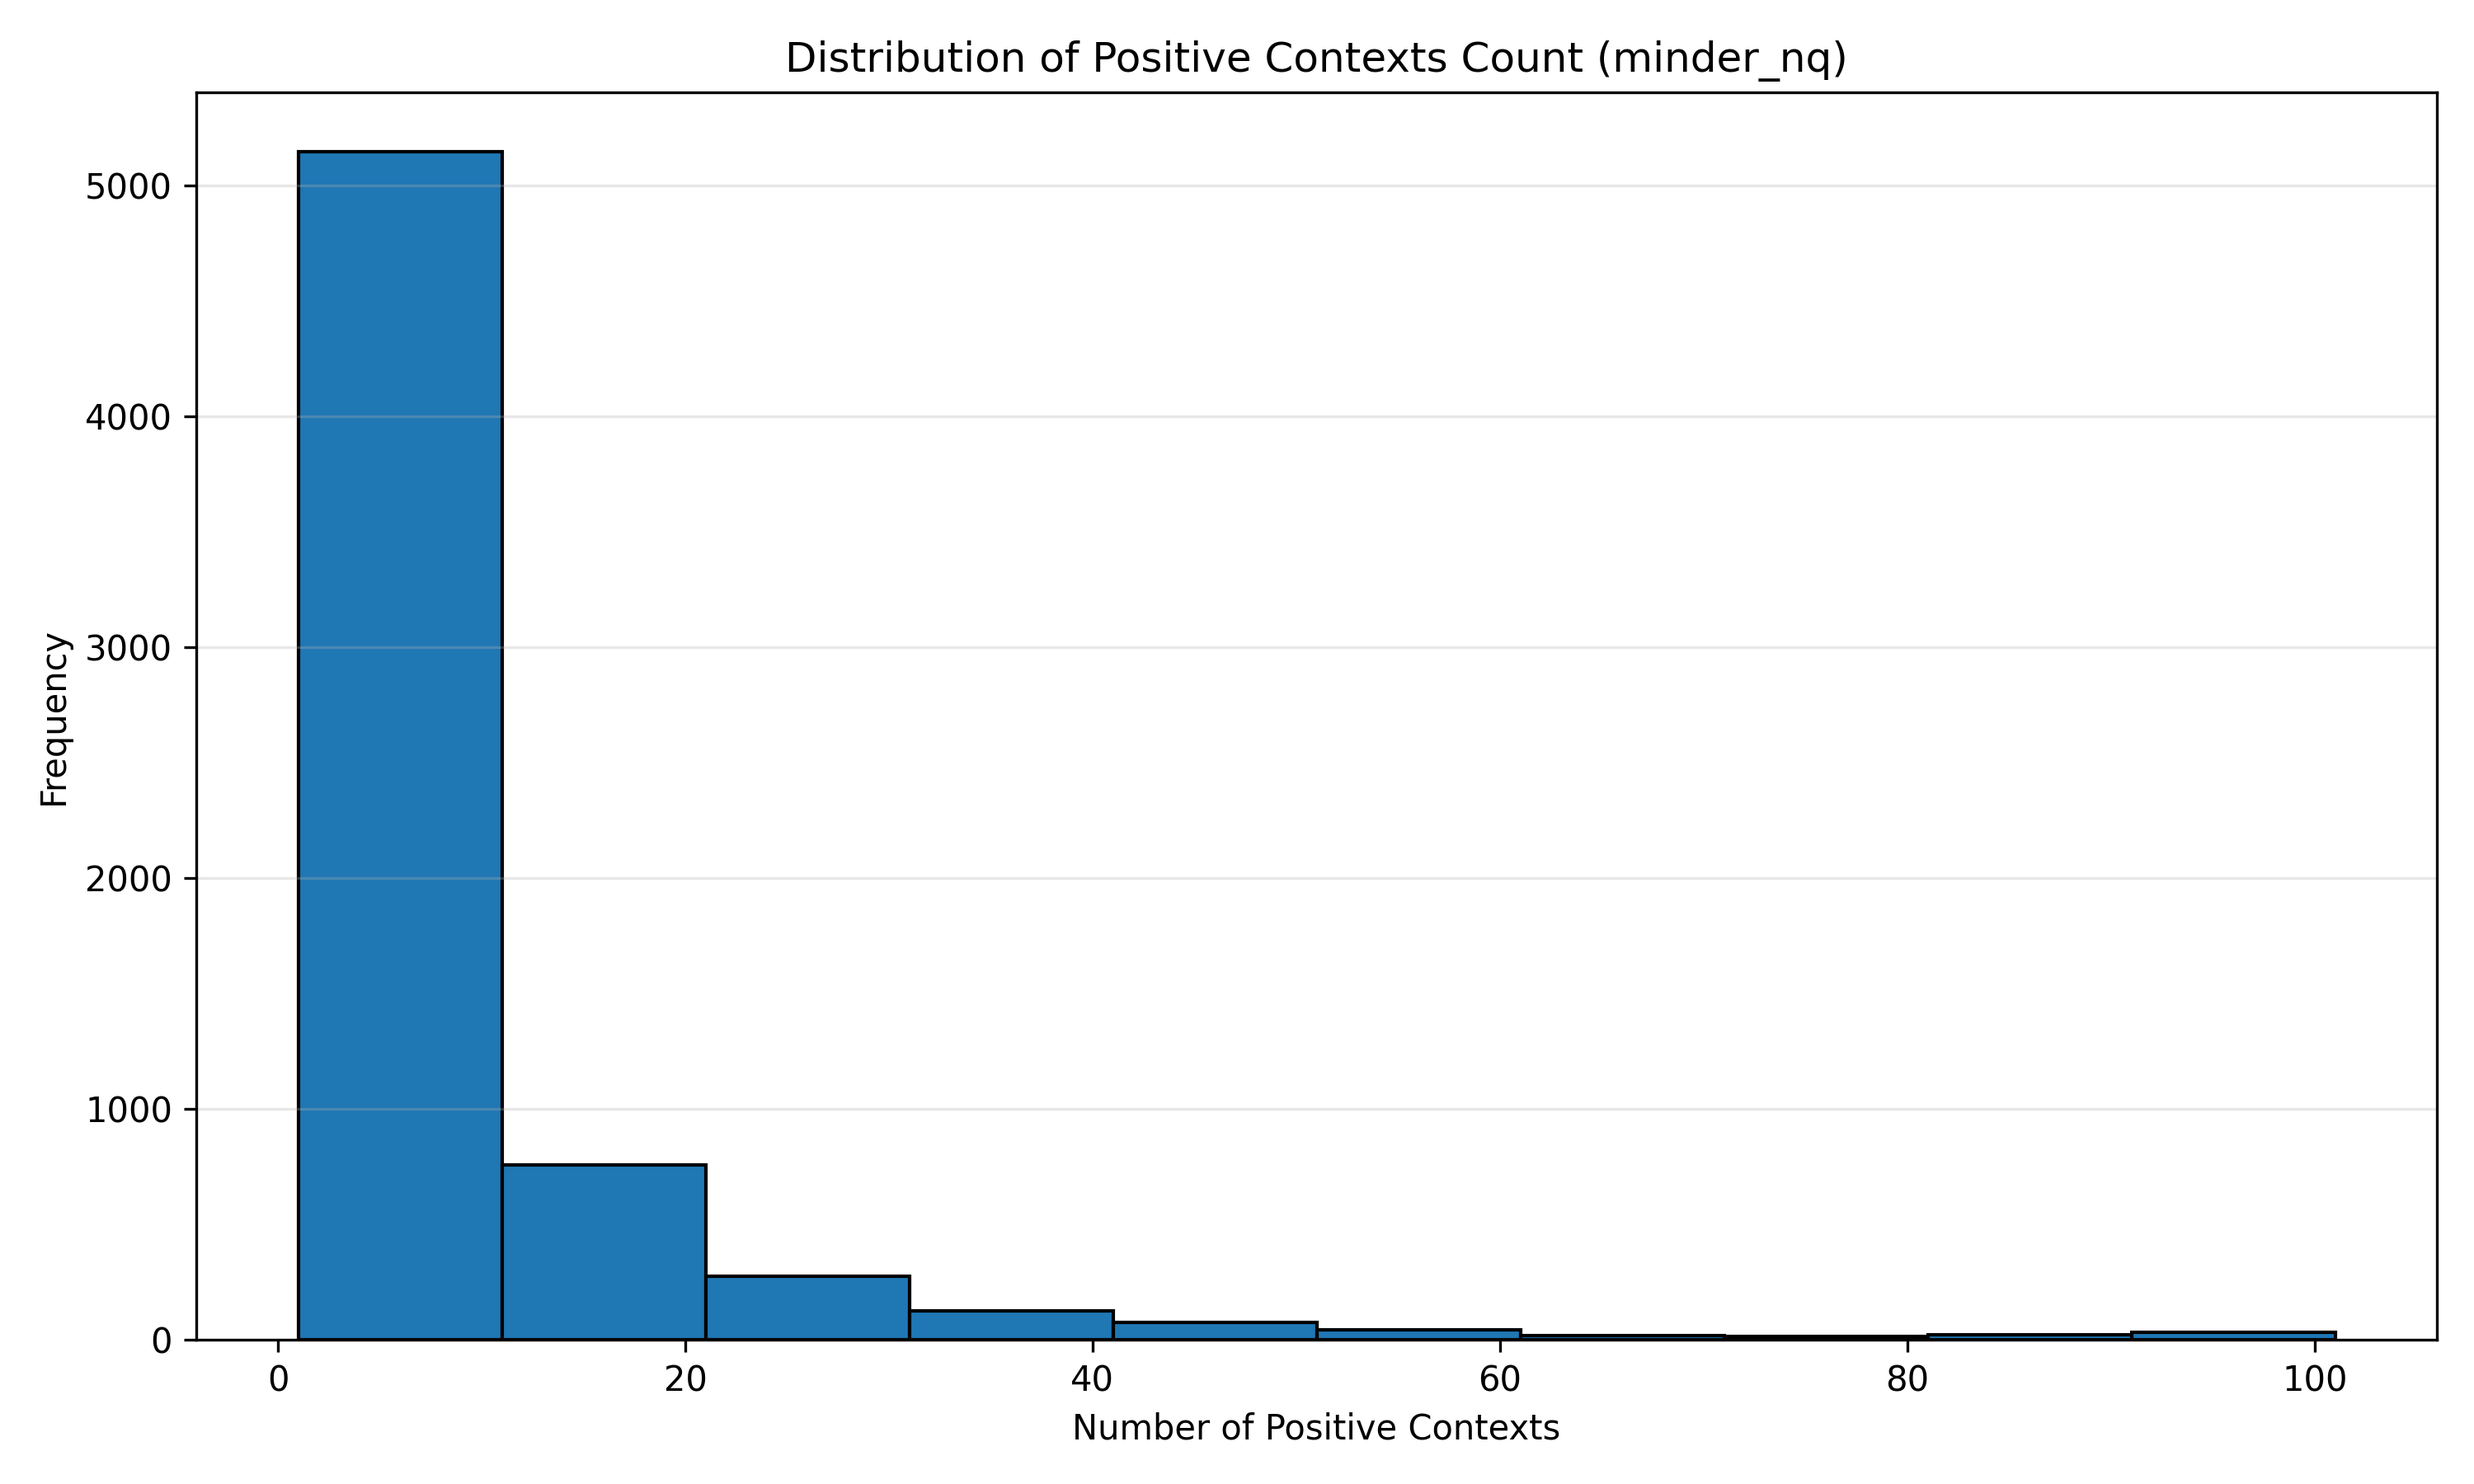
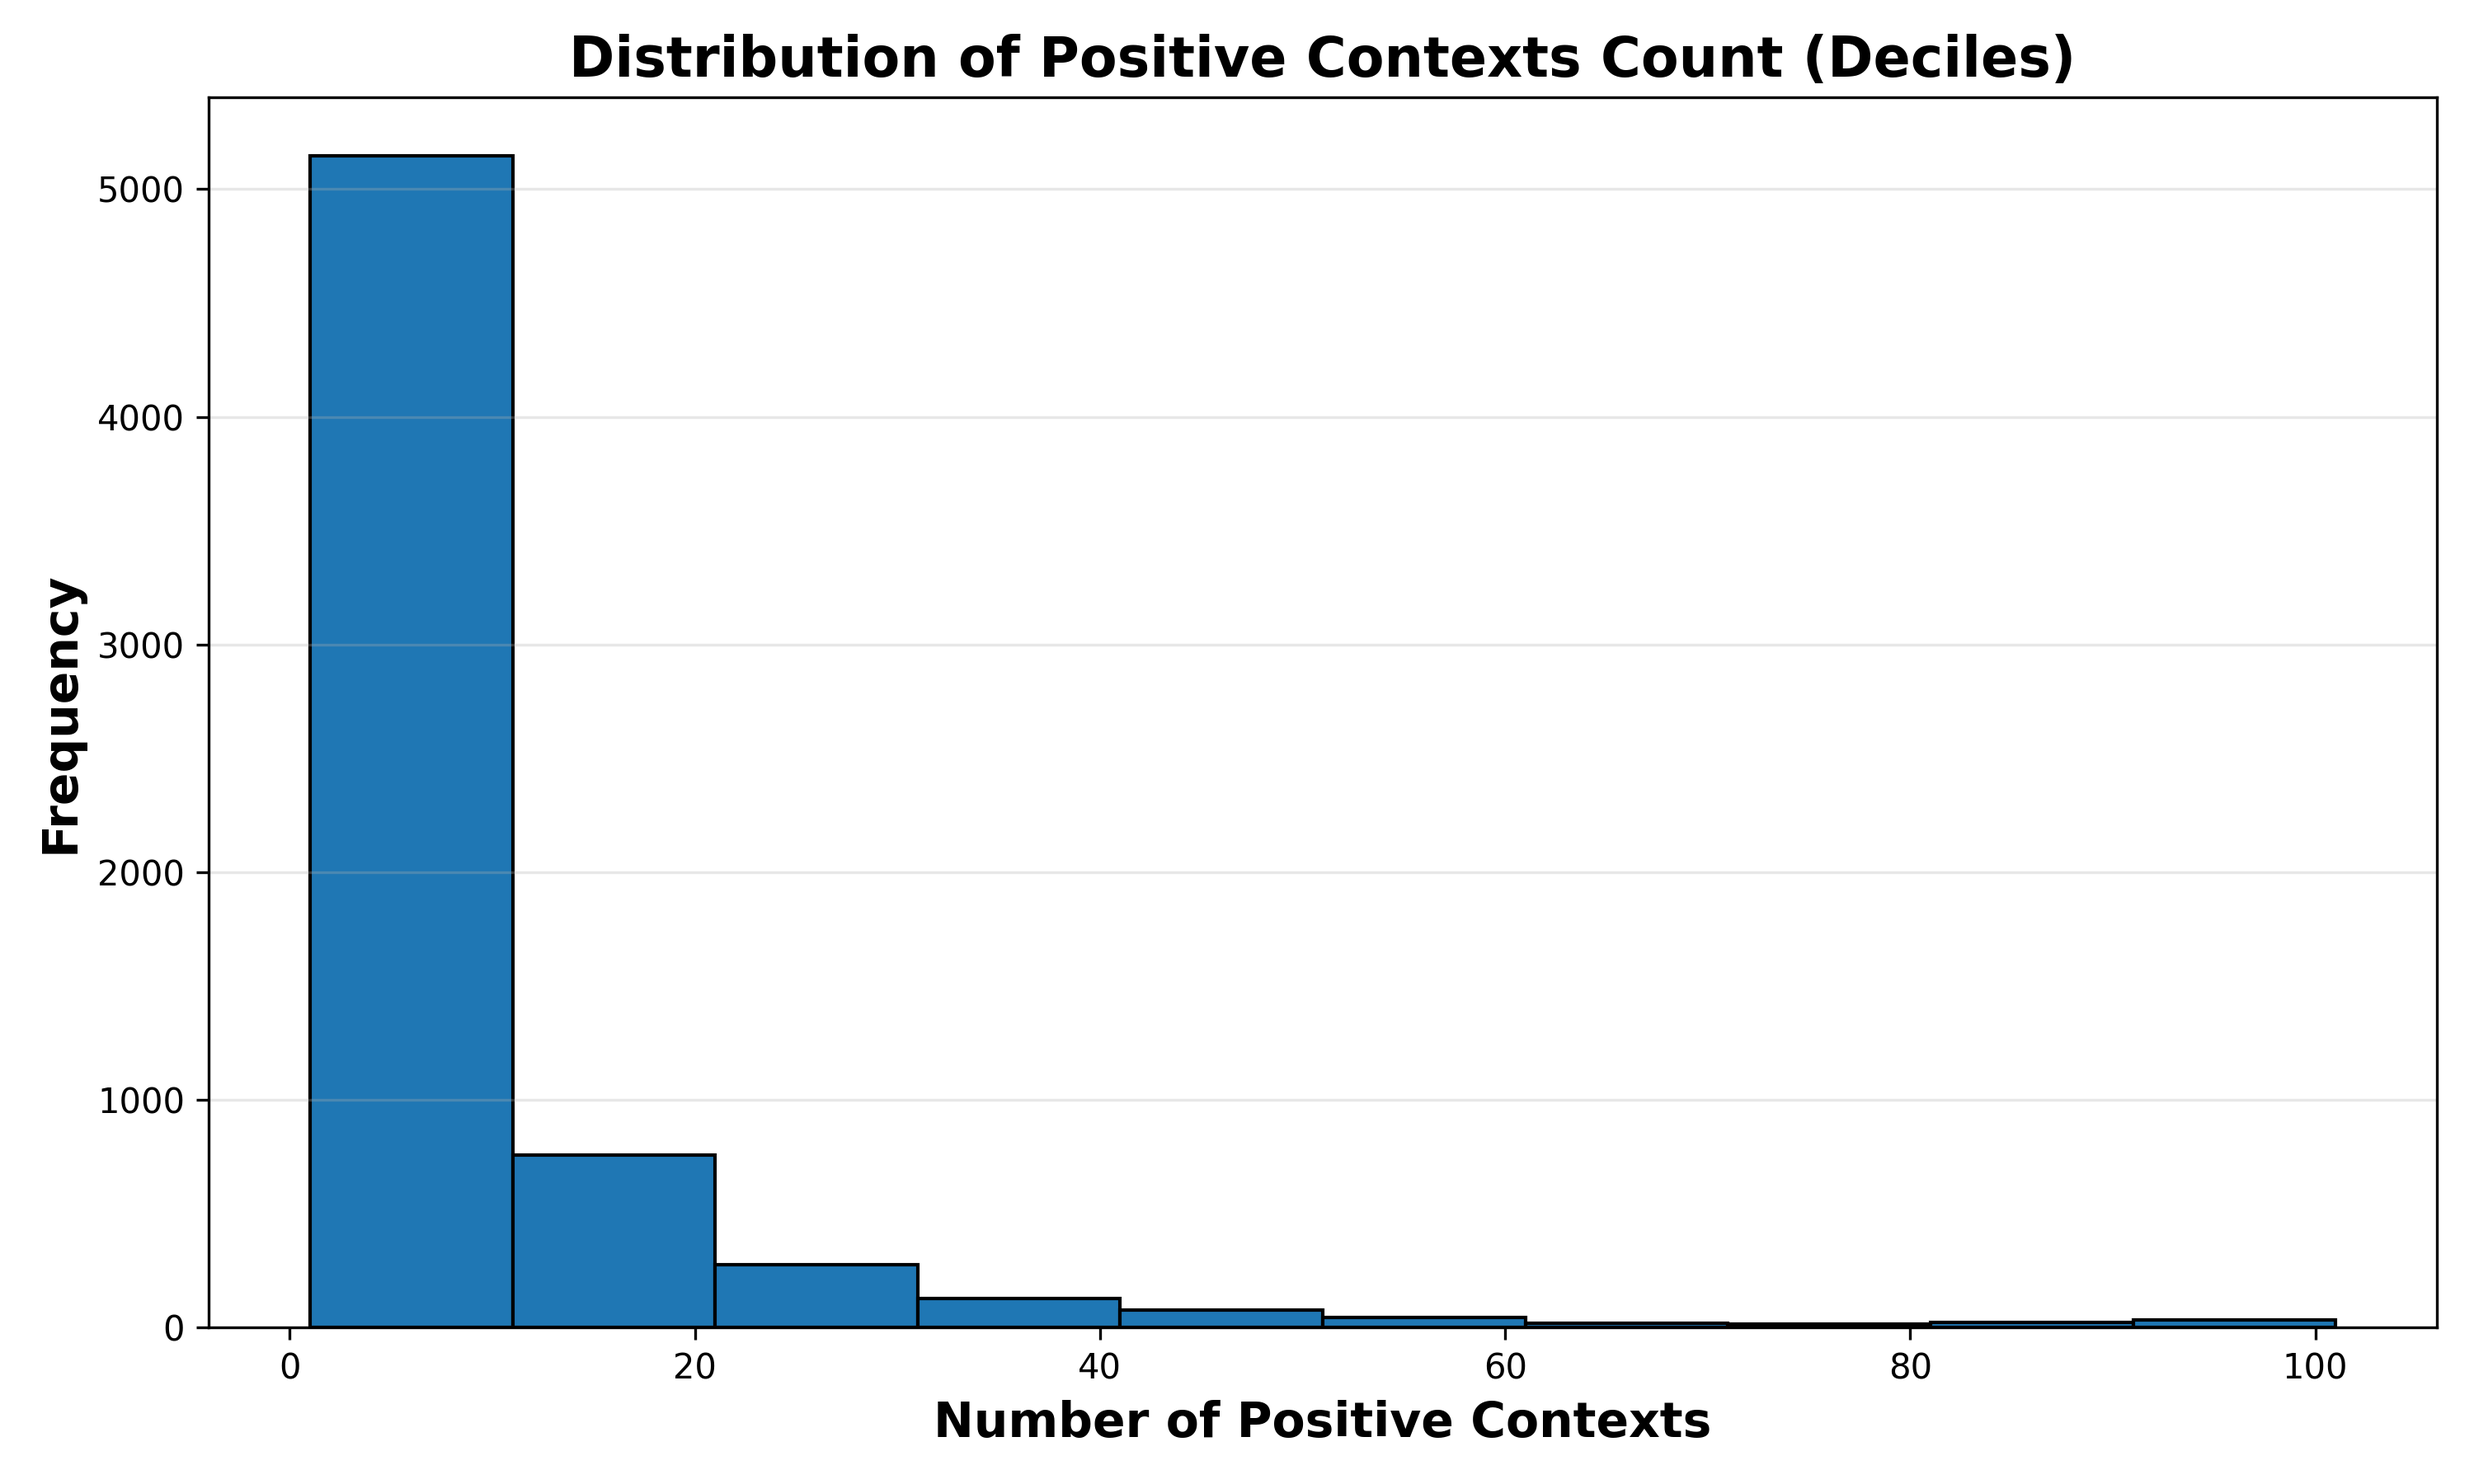
WIP make fig1 larger

Changed region(s): [[0.0, 0.0, 0.992, 0.9956]]

diff --git a/scripts/analyze_positive_ctxs.py b/scripts/analyze_positive_ctxs.py
@@ -69,9 +69,9 @@ for input_file in DATASETS:
 
     plt.figure(figsize=(10, 6))
     plt.hist(all_counts, bins=10, edgecolor='black')
-    plt.xlabel('Number of Positive Contexts')
-    plt.ylabel('Frequency')
-    plt.title(f'Distribution of Positive Contexts Count ({dataset_name})')
+    plt.xlabel('Number of Positive Contexts', fontsize=14, fontweight='bold')
+    plt.ylabel('Frequency', fontsize=14, fontweight='bold')
+    plt.title(f'Distribution of Positive Contexts Count (Deciles)', fontsize=16, fontweight='bold')
     plt.grid(axis='y', alpha=0.3)
     plt.tight_layout()
 

diff --git a/ThesisTemplateDPKM/main.tex b/ThesisTemplateDPKM/main.tex
@@ -207,7 +207,7 @@ On NQ, the output dataset (of both systems) has an average per-query annotated c
 \begin{figure}[H]
     \centering
     \includegraphics[width=0.7\textwidth]{assets/positive_ctxs_histogram.png}
-    \caption{Distribution of annotated correct passage counts per query on the NQ dataset.}
+    \caption{Distribution of annotated correct passage counts per query for SEAL on the NQ dataset.}
     \label{fig:positive-ctxs-histogram}
 \end{figure}
 
